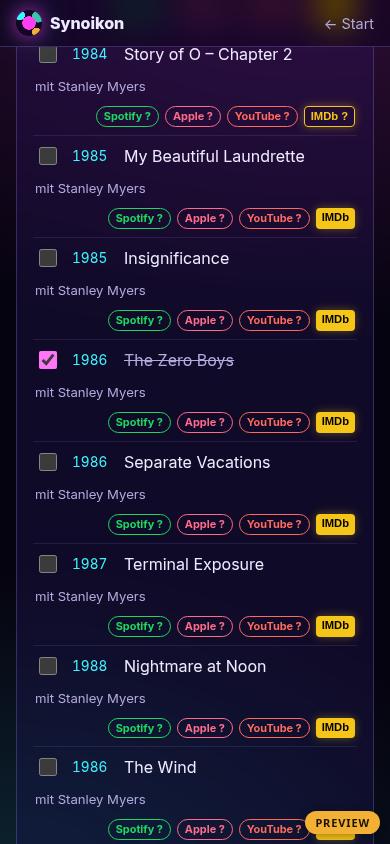
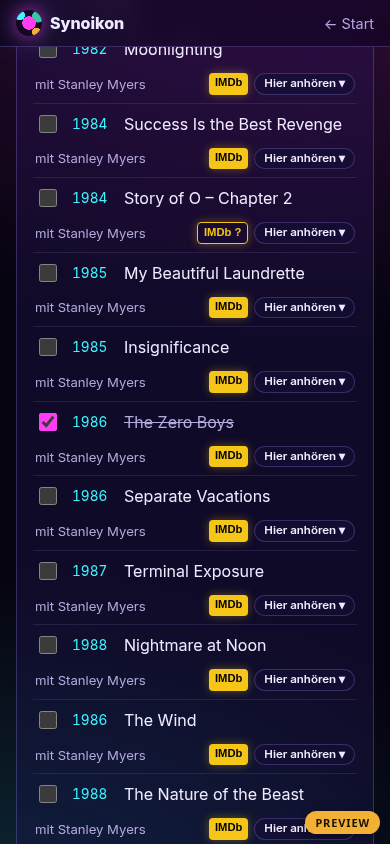
Zimmer tracker: 'Listen here' dropdown (Spotify, Apple Music, YouTube, Listen with friends) right of IMDb; keyboard/touch accessible, edge-aware placement

Changed region(s): [[0.0923, 0.0308, 0.9231, 1.0], [0.7692, 0.0, 0.9231, 0.0616]]

diff --git a/home/zimmer/index.html b/home/zimmer/index.html
@@ -37,10 +37,15 @@
     .imdb:hover, .imdb:focus-visible { box-shadow: 0 0 16px rgba(245,197,24,.8); outline: none; }
     .lk { margin-left: auto; display: inline-flex; gap: 6px; flex-wrap: wrap; }
     .lk .imdb { margin-left: 0; }
-    .mu { font: 700 .68rem/1 Inter, system-ui, sans-serif; border-radius: 999px; padding: 4px 7px; text-decoration: none; color: #fff !important; }
-    .mu.sp { background: #1db954; color: #04130a !important; } .mu.am { background: #fa2d55; } .mu.yt { background: #e62117; }
-    .mu.s { background: transparent !important; border: 1px solid currentColor; } .mu.sp.s { color: #1ed760 !important; } .mu.am.s { color: #ff6b8a !important; } .mu.yt.s { color: #ff6a5f !important; }
-    .mu:hover, .mu:focus-visible { box-shadow: 0 0 12px rgba(255,255,255,.35); outline: none; }
+    .row, .lh { -webkit-tap-highlight-color: transparent; }
+    .lh { font: 600 .72rem/1 Inter, system-ui, sans-serif; color: var(--ink); background: rgba(20,14,52,.7); border: 1px solid var(--line); border-radius: 999px; padding: 4px 9px; cursor: pointer; }
+    .lh:hover, .lh:focus-visible, .lh[aria-expanded="true"] { border-color: var(--accent2); box-shadow: 0 0 12px rgba(61,245,255,.35); outline: none; }
+    #lm { position: fixed; z-index: 50; min-width: 210px; max-width: calc(100vw - 16px); margin: 0; padding: 6px; list-style: none; border-radius: 14px;
+      background: rgba(14,10,38,.94); border: 1px solid var(--line); box-shadow: 0 0 28px rgba(122,92,255,.35), 0 16px 40px rgba(0,0,0,.5); backdrop-filter: blur(14px); -webkit-backdrop-filter: blur(14px); }
+    #lm a { display: flex; align-items: center; gap: 10px; padding: 10px 12px; border-radius: 10px; color: var(--ink); text-decoration: none; font-size: .92rem; }
+    #lm a:hover, #lm a:focus-visible { background: rgba(61,245,255,.12); outline: none; }
+    #lm .dot { width: 9px; height: 9px; border-radius: 50%; flex: none; } #lm small { margin-left: auto; color: var(--muted); font-size: .72rem; }
+    #lm .sep { border-top: 1px solid var(--line); margin: 4px 6px; }
     .empty { color: var(--muted); text-align: center; }
     .brand + a { color: var(--muted); font-size: .9rem; text-decoration: none; }
   </style>
@@ -75,8 +80,8 @@ const IMDB = {"12 Years a Slave|2013":"tt2024544","A League of Their Own|1992":"
 const MUSIC = {"12 Years a Slave|2013":{"am":"https://music.apple.com/album/730171673","sp":"2GLETs2JWEl74J8LPvECwf"},"An Everlasting Piece|2000":{"am":"https://music.apple.com/album/1443771701"},"Angels & Demons|2009":{"am":"https://music.apple.com/album/312640320"},"Army of Thieves|2021":{"am":"https://music.apple.com/album/1593689854"},"Backdraft|1991":{"am":"https://music.apple.com/album/1765015250"},"Batman Begins|2005":{"am":"https://music.apple.com/album/339335217"},"Batman v Superman: Dawn of Justice|2016":{"am":"https://music.apple.com/album/1454323119"},"Black Hawk Down|2001":{"am":"https://music.apple.com/album/1434910611","sp":"3Eh8eEKS1cYsqCrZw2CyZf"},"Blade Runner 2049|2017":{"am":"https://music.apple.com/album/1291056782"},"Blitz|2024":{"am":"https://music.apple.com/album/1775492572"},"Chappie|2015":{"am":"https://music.apple.com/album/1440792088"},"Crimson Tide|1995":{"am":"https://music.apple.com/album/1452376528"},"Dark Phoenix|2019":{"am":"https://music.apple.com/album/1511043157"},"Days of Thunder|1990":{"sp":"1GCPZH902hpTHqjXF7jQ0s"},"Dune: Part Two|2024":{"am":"https://music.apple.com/album/1732115750"},"Dune|2021":{"am":"https://music.apple.com/album/1583651332"},"Dunkirk|2017":{"am":"https://music.apple.com/album/1454450333"},"Eden|2024":{"am":"https://music.apple.com/album/1843163392"},"Ella McCay|2025":{"am":"https://music.apple.com/album/1857817328"},"Freeheld|2015":{"am":"https://music.apple.com/album/1455252319"},"Frost/Nixon|2008":{"am":"https://music.apple.com/album/1443660692","sp":"7vKw9i8IDjmHYGhaNlENtA"},"Gladiator|2000":{"am":"https://music.apple.com/album/1440563157"},"Green Card|1990":{"am":"https://music.apple.com/album/1444061662"},"Hannibal|2001":{"sp":"6JgvWFkxKiG6Z2rDWZCLGV"},"Henri 4|2010":{"am":"https://music.apple.com/album/362821226"},"Hidden Figures|2016":{"am":"https://music.apple.com/album/1186856721"},"Hillbilly Elegy|2020":{"am":"https://music.apple.com/album/1538614456"},"Inception|2010":{"am":"https://music.apple.com/album/380349905"},"Inferno|2016":{"am":"https://music.apple.com/album/1155459473"},"Interstellar|2014":{"am":"https://music.apple.com/album/1533983552"},"It's Complicated|2009":{"am":"https://music.apple.com/album/1493609849"},"King Arthur|2004":{"am":"https://music.apple.com/album/1444174119"},"Kung Fu Panda 2|2011":{"am":"https://music.apple.com/album/1452858532"},"Kung Fu Panda 3|2016":{"am":"https://music.apple.com/album/1076973938"},"Kung Fu Panda 4|2024":{"am":"https://music.apple.com/album/1732595908"},"Madagascar: Escape 2 Africa|2008":{"sp":"0a6NsOaOzlrubGl3htyVWG"},"Madagascar|2005":{"sp":"7cDEqhpPBkKT7G4xRPkwSn"},"Man of Steel|2013":{"am":"https://music.apple.com/album/1454398377"},"Matchstick Men|2003":{"am":"https://music.apple.com/album/1443723411","sp":"2J0Pf92ILvY9QRKzcrEzRx"},"Megamind|2010":{"am":"https://music.apple.com/album/396247272"},"Mission: Impossible 2|2000":{"am":"https://music.apple.com/album/1521368527","sp":"7cJ4oRwyJ5BU1oj29AquOM"},"Nine Months|1995":{"am":"https://music.apple.com/album/1507813600"},"No Time to Die|2021":{"am":"https://music.apple.com/album/1533265529"},"Pacific Heights|1990":{"am":"https://music.apple.com/album/1443089090"},"Pearl Harbor|2001":{"am":"https://music.apple.com/album/98416611","sp":"6d0LelwtKFd0F0ZfImWWDz"},"Pirates of the Caribbean: At World's End|2007":{"am":"https://music.apple.com/album/1440743443"},"Pirates of the Caribbean: Dead Man's Chest|2006":{"am":"https://music.apple.com/album/1445882013"},"Radio Flyer|1992":{"am":"https://music.apple.com/album/904108070"},"Rain Man|1988":{"am":"https://music.apple.com/album/724500811"},"Rebuilding Paradise|2020":{"am":"https://music.apple.com/album/1537922012"},"Renaissance Man|1994":{"am":"https://music.apple.com/album/1442210974"},"Sherlock Holmes: A Game of Shadows|2011":{"am":"https://music.apple.com/album/1455696582"},"Sherlock Holmes|2009":{"am":"https://music.apple.com/album/342564779"},"Something to Talk About|1995":{"am":"https://music.apple.com/album/1443089762"},"Spirit: Stallion of the Cimarron|2002":{"am":"https://music.apple.com/album/1440870318","sp":"3pDG0vQ5LfL2BQZJJtkbg8"},"The Boss Baby: Family Business|2021":{"am":"https://music.apple.com/album/1571796449"},"The Boss Baby|2017":{"am":"https://music.apple.com/album/1216386203"},"The Creator|2023":{"am":"https://music.apple.com/album/1708191452"},"The Da Vinci Code|2006":{"am":"https://music.apple.com/album/1440768935"},"The Dark Knight Rises|2012":{"am":"https://music.apple.com/album/1454323407"},"The Dark Knight|2008":{"am":"https://music.apple.com/album/284530501"},"The Holiday|2006":{"am":"https://music.apple.com/album/1816017920","sp":"1wJZSN3VrWTR8OcFJ4lp9I"},"The Last Samurai|2003":{"am":"https://music.apple.com/album/3943118"},"The Lion King|1994":{"am":"https://music.apple.com/album/1445732923","sp":"3YA5DdB3wSz4pdfEXoMyRd"},"The Lion King|2019":{"am":"https://music.apple.com/album/1472083270","sp":"7e8y48Z2fkJNGBOKSECCeS"},"The Little Prince|2015":{"sp":"6epIOxXmRWOLlxTjIgKG7k"},"The Lone Ranger|2013":{"am":"https://music.apple.com/album/1443102659"},"The Peacemaker|1997":{"am":"https://music.apple.com/album/1442914657"},"The Preacher's Wife|1996":{"sp":"4GtmXlzXsP67AKOVT8LWKK"},"The Prince of Egypt|1998":{"am":"https://music.apple.com/album/1445666907"},"The Son|2022":{"am":"https://music.apple.com/album/1651935566"},"The SpongeBob Movie: Sponge on the Run|2020":{"am":"https://music.apple.com/album/1562362117"},"The Survivor|2021":{"am":"https://music.apple.com/album/1618815655"},"The Thin Red Line|1998":{"am":"https://music.apple.com/album/212408475"},"The Unforgivable|2021":{"am":"https://music.apple.com/album/1658421955"},"The Weather Man|2005":{"am":"https://music.apple.com/album/1746963418"},"Top Gun: Maverick|2022":{"am":"https://music.apple.com/album/1621817793"},"Widows|2018":{"am":"https://music.apple.com/album/1500499862"},"Winter's Tale|2014":{"am":"https://music.apple.com/album/1454455092"},"Wonder Woman 1984|2020":{"am":"https://music.apple.com/album/1552230196"}};
 const UP = [["The Last Photograph",2026,"Omer Benyamin and Steven Doar"],["Ramayana: Part 1",2026,"A. R. Rahman"],["Dune: Part Three",2026,""],["Ramayana: Part 2",2027,"A. R. Rahman"]];
 (function () {
-  var T = { de: { back: '← Start', sub: 'Jeder Spielfilm, den Hans Zimmer vertont oder mitvertont hat, nach Jahrzehnt. Hake ab, was du gesehen hast; die Haken bleiben nur in diesem Browser.', seen: 'Gesehen', left: 'Noch offen', feat: 'Spielfilme', ph: 'Titel, Jahr oder Mitkomponist suchen', unseen: 'Nur ungesehene', credit: 'Filmliste aus', state: 'Stand: November 2026.', priv: 'Datenschutz', docs: 'Dokumentarfilme', docsCap: 'Nicht in der Spielfilm-Zahl enthalten', up: 'Angekündigt', upCap: 'Noch nicht erschienen (Stand November 2026)', of: ' von ', seenS: ' gesehen', with: 'mit ', none: 'Keine Treffer.', onImdb: 'Auf IMDb öffnen (neuer Tab)', srchImdb: 'Auf IMDb suchen (neuer Tab)', search: 'Suche', credit: 'Filmliste aus', imdbC: 'Links zu IMDb und zum Soundtrack auf Spotify, Apple Music und YouTube; ein „?“ öffnet eine Suche.' } };
-  var E = { docs: 'Documentaries', docsCap: 'Not counted in the feature film total', up: 'Upcoming', upCap: 'Announced, not yet released as of November 2026', of: ' of ', seenS: ' seen', with: 'with ', none: 'No matches.', onImdb: 'Open on IMDb (new tab)', srchImdb: 'Search on IMDb (new tab)', search: 'search' };
+  var T = { de: { back: '← Start', sub: 'Jeder Spielfilm, den Hans Zimmer vertont oder mitvertont hat, nach Jahrzehnt. Hake ab, was du gesehen hast; die Haken bleiben nur in diesem Browser.', seen: 'Gesehen', left: 'Noch offen', feat: 'Spielfilme', ph: 'Titel, Jahr oder Mitkomponist suchen', unseen: 'Nur ungesehene', credit: 'Filmliste aus', state: 'Stand: November 2026.', priv: 'Datenschutz', docs: 'Dokumentarfilme', docsCap: 'Nicht in der Spielfilm-Zahl enthalten', up: 'Angekündigt', upCap: 'Noch nicht erschienen (Stand November 2026)', of: ' von ', seenS: ' gesehen', with: 'mit ', none: 'Keine Treffer.', onImdb: 'Auf IMDb öffnen (neuer Tab)', srchImdb: 'Auf IMDb suchen (neuer Tab)', search: 'Suche', listen: 'Hier anhören', friends: 'Mit Freunden hören', credit: 'Filmliste aus', imdbC: 'Links zu IMDb und zum Soundtrack auf Spotify, Apple Music und YouTube; ein „?“ öffnet eine Suche.' } };
+  var E = { docs: 'Documentaries', docsCap: 'Not counted in the feature film total', up: 'Upcoming', upCap: 'Announced, not yet released as of November 2026', of: ' of ', seenS: ' seen', with: 'with ', none: 'No matches.', onImdb: 'Open on IMDb (new tab)', srchImdb: 'Search on IMDb (new tab)', search: 'search', listen: 'Listen here', friends: 'Listen with friends' };
   var lang = (navigator.language || 'en').slice(0, 2), t = T[lang] || {};
   function L(k) { return t[k] || E[k]; }
   if (T[lang]) { document.documentElement.lang = lang;
@@ -91,28 +96,44 @@ const UP = [["The Last Photograph",2026,"Omer Benyamin and Steven Doar"],["Ramay
     return (!un.checked || !seen[id(f)]) && (!s || (f[0] + ' ' + f[2] + ' ' + f[1]).toLowerCase().indexOf(s) >= 0); }
   function imdb(f) { var tt = IMDB[id(f)], q = encodeURIComponent(f[0] + ' ' + f[1]);
     return '<a class="imdb' + (tt ? '' : ' s') + '" target="_blank" rel="noopener noreferrer" href="' + (tt ? 'https://www.imdb.com/title/' + tt + '/' : 'https://www.imdb.com/find/?q=' + q + '&s=tt') + '" title="' + (tt ? L('onImdb') : L('srchImdb')) + '" aria-label="' + esc(f[0]) + ' (' + f[1] + '): ' + (tt ? L('onImdb') : L('srchImdb')) + '">IMDb' + (tt ? '' : ' ?') + '</a>'; }
-  function A(cls, href, label, sure, name) { return '<a class="' + cls + (sure ? '' : ' s') + '" target="_blank" rel="noopener noreferrer" href="' + href + '" title="' + label + (sure ? '' : ' (' + L('search') + ')') + '" aria-label="' + esc(name) + ': ' + label + (sure ? '' : ' (' + L('search') + ')') + '">' + cls.split(' ')[1].replace('sp', 'Spotify').replace('am', 'Apple').replace('yt', 'YouTube') + (sure ? '' : ' ?') + '</a>'; }
-  function music(f) { var k = id(f), m = MUSIC[k] || {}, st = encodeURIComponent(f[0] + ' Hans Zimmer'), yq = encodeURIComponent(f[0] + ' Hans Zimmer main theme');
-    return A('mu sp', m.sp ? 'https://open.spotify.com/album/' + m.sp : 'https://open.spotify.com/search/' + st, 'Spotify', !!m.sp, f[0]) +
-      A('mu am', m.am ? m.am : 'https://music.apple.com/search?term=' + st, 'Apple Music', !!m.am, f[0]) +
-      A('mu yt', 'https://www.youtube.com/results?search_query=' + yq, 'YouTube', false, f[0]); }
+  function music(f) { return '<button type="button" class="lh" aria-haspopup="true" aria-expanded="false" data-k="' + esc(id(f)) + '">' + L('listen') + ' <span aria-hidden="true">▾</span></button>'; }
   function co(f) { return f[2] ? '<span class="co">' + L('with') + esc(f[2]) + '</span>' : ''; }
   function rows(fs) { return fs.filter(match).map(function (f) { var k = id(f), on = !!seen[k];
-    return '<div class="row' + (on ? ' seen' : '') + '"><label><input type="checkbox" data-k="' + esc(k) + '"' + (on ? ' checked' : '') + '><span class="yr">' + f[1] + '</span><span class="ti">' + esc(f[0]) + '</span>' + co(f) + '</label><span class="lk">' + music(f) + imdb(f) + '</span></div>'; }).join(''); }
+    return '<div class="row' + (on ? ' seen' : '') + '"><label><input type="checkbox" data-k="' + esc(k) + '"' + (on ? ' checked' : '') + '><span class="yr">' + f[1] + '</span><span class="ti">' + esc(f[0]) + '</span>' + co(f) + '</label><span class="lk">' + imdb(f) + music(f) + '</span></div>'; }).join(''); }
   function card(h, cap, body) { return '<section class="card"><h2>' + h + '</h2><p class="cap">' + cap + '</p>' + body + '</section>'; }
-  function render() {
+  function render() { if (typeof closeMenu === 'function') closeMenu();
     var all = FILMS.concat(DOCS), n = all.filter(function (f) { return seen[id(f)]; }).length, html = '';
     document.getElementById('sSeen').textContent = n; document.getElementById('sLeft').textContent = all.length - n; document.getElementById('sAll').textContent = FILMS.length;
     [1980, 1990, 2000, 2010, 2020].forEach(function (d) {
       var fs = FILMS.filter(function (f) { return f[1] >= d && f[1] < d + 10; }), r = rows(fs);
       if (r) html += card(d + 's', fs.filter(function (f) { return seen[id(f)]; }).length + L('of') + fs.length + L('seenS'), r); });
     var r = rows(DOCS); if (r) html += card(L('docs'), L('docsCap'), r);
-    if (!q.value.trim()) html += card(L('up'), L('upCap'), UP.map(function (f) { return '<div class="row" style="cursor:default"><span class="yr">' + f[1] + '</span><span class="ti">' + esc(f[0]) + '</span>' + co(f) + '<span class="lk">' + music(f) + imdb(f) + '</span></div>'; }).join(''));
+    if (!q.value.trim()) html += card(L('up'), L('upCap'), UP.map(function (f) { return '<div class="row" style="cursor:default"><span class="yr">' + f[1] + '</span><span class="ti">' + esc(f[0]) + '</span>' + co(f) + '<span class="lk">' + imdb(f) + music(f) + '</span></div>'; }).join(''));
     box.innerHTML = html || '<p class="empty">' + L('none') + '</p>';
   }
   box.addEventListener('change', function (e) { var k = e.target.dataset.k; if (!k) return;
     if (e.target.checked) seen[k] = true; else delete seen[k];
     try { localStorage.setItem(KEY, JSON.stringify(seen)); } catch (er) {} render(); });
+  var menu = document.createElement('ul'); menu.id = 'lm'; menu.setAttribute('role', 'menu'); menu.hidden = true; document.body.appendChild(menu); var openBtn = null;
+  function closeMenu(focus) { if (!openBtn) return; openBtn.setAttribute('aria-expanded', 'false'); menu.hidden = true; if (focus) openBtn.focus(); openBtn = null; }
+  function item(dot, href, label, sure) { return '<li role="none"><a role="menuitem" target="_blank" rel="noopener noreferrer" href="' + href + '"><span class="dot" style="background:' + dot + '"></span>' + label + (sure ? '' : '<small>' + L('search') + '</small>') + '</a></li>'; }
+  function openMenu(btn) { closeMenu(); var k = btn.dataset.k, f = FILMS.concat(DOCS, UP).filter(function (x) { return id(x) === k; })[0], m = MUSIC[k] || {};
+    var st = encodeURIComponent(f[0] + ' Hans Zimmer'), yq = encodeURIComponent(f[0] + ' Hans Zimmer main theme');
+    menu.innerHTML = item('#1db954', m.sp ? 'https://open.spotify.com/album/' + m.sp : 'https://open.spotify.com/search/' + st, 'Spotify', !!m.sp) +
+      item('#fa2d55', m.am || 'https://music.apple.com/search?term=' + st, 'Apple Music', !!m.am) +
+      item('#e62117', 'https://www.youtube.com/results?search_query=' + yq, 'YouTube', false) +
+      '<li role="none" class="sep"></li>' + item('linear-gradient(135deg,#ff3df2,#3df5ff)', 'https://listen.synoikon.com/', L('friends'), true);
+    menu.setAttribute('aria-label', f[0] + ': ' + L('listen')); menu.hidden = false; openBtn = btn; btn.setAttribute('aria-expanded', 'true'); place(); menu.querySelector('a').focus({ preventScroll: true }); }
+  function place() { if (!openBtn) return; var r = openBtn.getBoundingClientRect(), w = menu.offsetWidth, h = menu.offsetHeight, vw = innerWidth, vh = innerHeight;
+    var x = Math.min(Math.max(8, r.right - w), vw - w - 8), y = r.bottom + 6; if (y + h > vh - 8) y = Math.max(8, r.top - h - 6);
+    menu.style.left = x + 'px'; menu.style.top = y + 'px'; }
+  box.addEventListener('click', function (e) { var b = e.target.closest('.lh'); if (!b) return; e.preventDefault(); e.stopPropagation(); if (openBtn === b) closeMenu(true); else openMenu(b); });
+  document.addEventListener('click', function (e) { if (openBtn && !menu.contains(e.target)) closeMenu(); });
+  menu.addEventListener('click', function (e) { if (e.target.closest('a')) setTimeout(closeMenu, 0); });
+  document.addEventListener('keydown', function (e) { if (!openBtn) return; var as = [].slice.call(menu.querySelectorAll('a')), i = as.indexOf(document.activeElement);
+    if (e.key === 'Escape') { e.preventDefault(); closeMenu(true); } else if (e.key === 'ArrowDown') { e.preventDefault(); as[(i + 1) % as.length].focus(); } else if (e.key === 'ArrowUp') { e.preventDefault(); as[(i - 1 + as.length) % as.length].focus(); } else if (e.key === 'Tab') closeMenu(); });
+  addEventListener('scroll', place, { passive: true }); addEventListener('resize', place);
+  q.addEventListener('input', function () { closeMenu(); }); un.addEventListener('change', function () { closeMenu(); });
   q.addEventListener('input', render); un.addEventListener('change', render);
   render();
 })();
